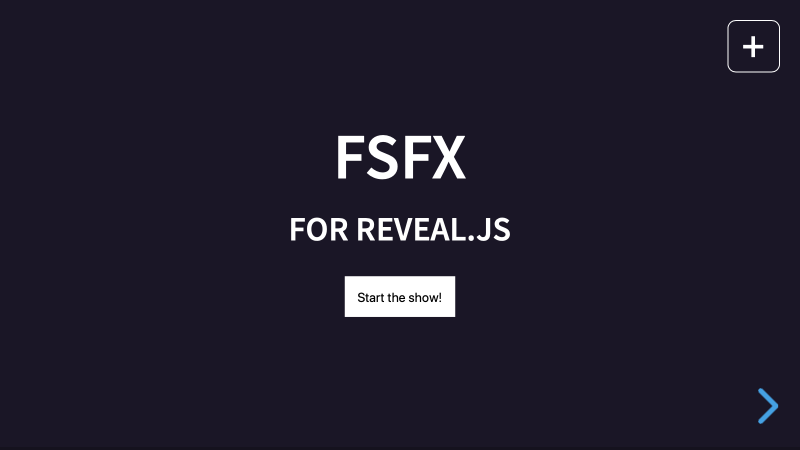
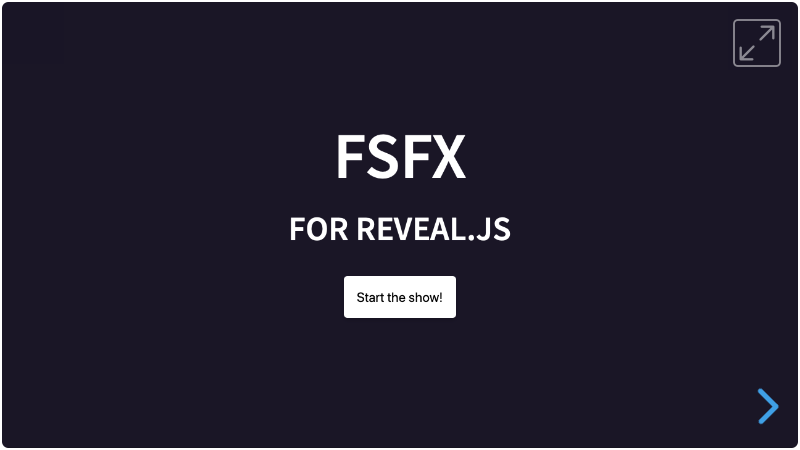
Version 1.1.0

diff --git a/css/demo.css b/css/demo.css
@@ -1,4 +1,3 @@
-@charset "UTF-8";
 .slides {
   opacity: 0;
   -webkit-transition: opacity .5s ease;
@@ -15,7 +14,8 @@ li + li {
   margin-top: 0.3em; }
 
 .fsbutton {
-  display: inline-block;
+  border-radius: 6px;
+  display: none;
   text-decoration: none;
   cursor: pointer;
   text-align: center;
@@ -25,46 +25,67 @@ li + li {
   -o-transition: opacity .5s ease-in-out;
   transition: opacity .5s ease-in-out; }
 
+.reveal > .fsbutton {
+  border: 1.1px solid white;
+  margin: 0;
+  padding: 0;
+  background: none;
+  color: white;
+  font-size: 1rem;
+  font-size: clamp(1rem, 1vw + 1rem, 2rem);
+  line-height: 0;
+  padding: 6px;
+  opacity: 0.6;
+  -webkit-transition: opacity 0.15s ease-in-out;
+  -o-transition: opacity 0.15s ease-in-out;
+  transition: opacity 0.15s ease-in-out; }
+  .reveal > .fsbutton:hover {
+    opacity: 1; }
+
 .slides .fsbutton {
   border: none;
   padding: 1em;
   margin: 1em;
   background: #ffffff;
   color: #000000;
-  font-size: .5em; }
-
-.reveal > .fsbutton {
-  border: 1.1px solid white;
-  border-radius: 0.2em;
-  width: 1.25em;
-  height: 1.25em;
-  margin: 0;
-  padding: 0;
-  background: none;
-  color: white;
-  font-size: 75%;
-  line-height: 0.75em;
-  opacity: 0.6;
-  -webkit-transition: opacity 0.15s ease-in-out;
-  -o-transition: opacity 0.15s ease-in-out;
-  transition: opacity 0.15s ease-in-out; }
-
-.reveal > .fsbutton:hover {
-  opacity: 1; }
+  font-size: .5em;
+  -webkit-box-shadow: 0 0.2rem 0.5rem rgba(0, 0, 0, 0.2);
+          box-shadow: 0 0.2rem 0.5rem rgba(0, 0, 0, 0.2); }
+  .slides .fsbutton:hover {
+    -webkit-box-shadow: 0 0.5rem 1rem rgba(0, 0, 0, 0.5);
+            box-shadow: 0 0.5rem 1rem rgba(0, 0, 0, 0.5); }
 
 .hide {
   opacity: 0; }
 
+@font-face {
+  font-family: 'fsfx';
[1 lines of base64/hex data omitted]
+  font-weight: normal;
+  font-style: normal; }
+
 .icon-fs:after {
+  font-family: "fsfx";
   content: '+';
   line-height: 1;
-  font-size: 1.5em; }
+  width: 1em;
+  height: 1em;
+  font-style: normal;
+  font-weight: normal;
+  font-variant: normal;
+  text-transform: none;
+  -webkit-font-smoothing: antialiased;
+  -moz-osx-font-smoothing: grayscale;
+  margin-left: 12px; }
 
 .reveal > .icon-fs:after {
-  font-size: 1em; }
+  margin-left: 0; }
 
 .icon-fsexit:after {
-  content: '–'; }
+  content: '-'; }
+
+.reveal-viewport {
+  background: #1a1626; }
 
 .backgrounds {
   background: #1a1626;
@@ -76,3 +97,13 @@ li + li {
   color: green;
   background: DarkSlateGray;
   background-color: DarkSlateGray; }
+
+a.github-corner {
+  position: absolute;
+  z-index: 1;
+  width: clamp(50px, 8vmax, 80px);
+  line-height: 0;
+  color: rgba(255, 255, 255, 0.5); }
+
+a.github-corner:hover {
+  color: white; }

diff --git a/demo.html b/demo.html
@@ -8,14 +8,17 @@
     <meta name="author" content="Martinomagnifico">
     <meta name="viewport" content="width=device-width, initial-scale=1.0, maximum-scale=1.0, user-scalable=no">
     <meta http-equiv="X-UA-Compatible" content="IE=edge,chrome=1">
-    <link rel="stylesheet" href="https://cdn.jsdelivr.net/npm/reveal.js/dist/reset.css">
-    <link rel="stylesheet" href="https://cdn.jsdelivr.net/npm/reveal.js/dist/reveal.css">
-    <link rel="stylesheet" href="https://cdn.jsdelivr.net/npm/reveal.js/dist/theme/black.css">
+    <link rel="stylesheet" href="../dist/reset.css">
+    <link rel="stylesheet" href="../dist/reveal.css">
+    <link rel="stylesheet" href="../dist/theme/black.css">
     <link rel="stylesheet" href="css/demo.css">
 </head>
 
 <body>
-    <div class="reveal" data-fs-toggle="fullscreen">
+    <div class="reveal" data-fs-toggle="fullscreen"><a class="github-corner" href="https://github.com/Martinomagnifico/reveal.js-fsfx" target="blank" title="View source on GitHub">
+            <svg xmlns="http://www.w3.org/2000/svg" viewBox="0 0 55 55">
+                <path fill="currentColor" d="M27.5 11.2a16.3 16.3 0 0 0-5.1 31.7c.8.2 1.1-.3 1.1-.7v-2.8c-4.5 1-5.5-2.2-5.5-2.2-.7-1.9-1.8-2.4-1.8-2.4-1.5-1 .1-1 .1-1 1.6.1 2.5 1.7 2.5 1.7 1.5 2.5 3.8 1.8 4.7 1.4.2-1 .6-1.8 1-2.2-3.5-.4-7.3-1.8-7.3-8 0-1.8.6-3.3 1.6-4.4-.1-.5-.7-2.1.2-4.4 0 0 1.4-.4 4.5 1.7a15.6 15.6 0 0 1 8.1 0c3.1-2 4.5-1.7 4.5-1.7.9 2.3.3 4 .2 4.4 1 1 1.6 2.6 1.6 4.3 0 6.3-3.8 7.7-7.4 8 .6.6 1.1 1.6 1.1 3v4.6c0 .4.3.9 1.1.7a16.3 16.3 0 0 0-5.2-31.7"></path>
+            </svg></a>
         <button class="fsbutton icon-fs" style="position: absolute; right: 20px; top: 20px; z-index: 2;" data-fs-toggle="icon-fsexit"></button>
         <div class="slides">
             <section class="center" data-transition="fade">
@@ -58,8 +61,8 @@
             </section>
         </div>
     </div>
-    <script src="https://cdn.jsdelivr.net/npm/screenfull@5.1.0/dist/screenfull.min.js"></script>
-    <script src="https://cdn.jsdelivr.net/npm/reveal.js/dist/reveal.js"></script>
+    <script src="../dist/screenfull.min.js"></script>
+    <script src="../dist/reveal.js"></script>
     <script src="plugin/fsfx/fsfx.js"></script>
     <script>
         Reveal.initialize({

diff --git a/plugin/fsfx/fsfx.js b/plugin/fsfx/fsfx.js
@@ -4,7 +4,7 @@
  * https://github.com/Martinomagnifico
  *
  * FsFx.js for Reveal.js 
- * Version 1.0.9
+ * Version 1.1.0
  * 
  * @license 
  * MIT licensed
@@ -41,9 +41,9 @@
 	    var toggleThese = selectionArray(document, "[data-fs-toggle]");
 
 	    var hideIfNoFS = function hideIfNoFS(fsButton) {
-	      if (options.hideifnofs == true && !fsButton.hasAttribute("data-fs-gonext")) {
-	        fsButton.style.display = "none";
-	      } else {
+	      if (options.hideifnofs == true && !fsButton.hasAttribute("data-fs-gonext")) ; else {
+	        fsButton.style.display = "inline-block";
+
 	        fsButton.onclick = function () {
 	          deck.next();
 	        };
@@ -52,6 +52,8 @@
 
 	    var buttonCheck = function buttonCheck(fsButtons) {
 	      fsButtons.filter(function (fsButton) {
+	        fsButton.style.display = "inline-block";
+
 	        var goNext = function goNext() {
 	          if (parseInt(fsButton.dataset.fsGonext) > 0 && !screenfull.isFullscreen) {
 	            setTimeout(function () {
@@ -101,16 +103,23 @@
 	    };
 
 	    if (typeof screenfull !== "undefined") {
-	      if (fsButtons.length > 0) {
-	        buttonCheck(fsButtons);
+	      if (!sfEnabled()) {
+	        console.log("The browser does not support the Fullscreen API.");
+	        fsButtons.filter(function (fsButton) {
+	          hideIfNoFS(fsButton);
+	        });
 	      } else {
-	        console.log("There are no FS buttons");
-	      }
+	        if (fsButtons.length > 0) {
+	          buttonCheck(fsButtons);
+	        } else {
+	          console.log("There are no FS buttons");
+	        }
 
-	      if (toggleThese.length > 0) {
-	        toggleCheck(toggleThese);
-	      } else {
-	        console.log("There are no elements with 'data-fs-toggle'.");
+	        if (toggleThese.length > 0) {
+	          toggleCheck(toggleThese);
+	        } else {
+	          console.log("There are no elements with 'data-fs-toggle'.");
+	        }
 	      }
 	    } else {
 	      fsButtons.filter(function (fsButton) {

diff --git a/README.md b/README.md
@@ -4,7 +4,7 @@
 
 A plugin for [Reveal.js](https://revealjs.com) 4, that enters or exits fullscreen, and toggles classes on certain elements.
 
-[![Screenshot](screenshot.png)](https://martinomagnifico.github.io/reveal.js-fsfx/demo.html)
+[![Screenshot](https://martinomagnifico.github.io/reveal.js-fsfx/screenshot.png)](https://martinomagnifico.github.io/reveal.js-fsfx/demo.html)
 
 Sometimes you would like to have a button that starts a presentation *and* goes fullscreen at the same time. This plugin does just that. And some other things.  
 
